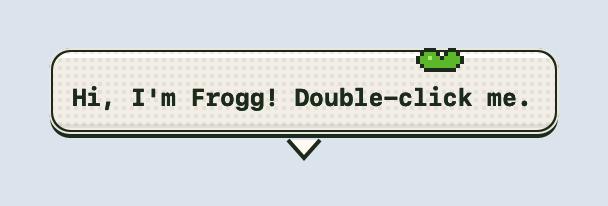
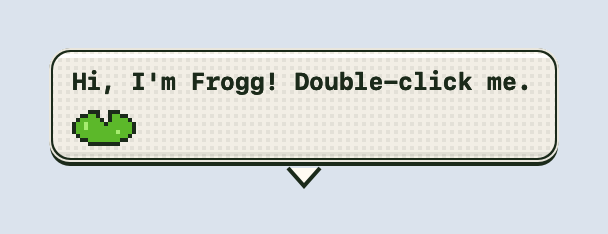
README, SPEC and screenshots: six Pixls, Katt and Silky, descriptions, Settings, counts
Lineup shows each Pixl's description and a greeting sound (bubbles hold only
sounds); menu-detail notes describe the current decals; Slugg's frame sheet;
the end-to-end state dump reports the new pixel controls.

Claude-Session: https://claude.ai/code/session_01FbPmycRw98T8vrGcqPeiEQ

Changed region(s): [[0.0625, 0.2039, 0.9375, 0.8155]]

diff --git a/macos/PixlMemory/Sources/PixlMemoryKit/PixlSpriteData.swift b/macos/PixlMemory/Sources/PixlMemoryKit/PixlSpriteData.swift
@@ -147,7 +147,7 @@ let pixlManifestJSON: [String: String] = [
     "signature": "Tongue snap",
     "askPlaceholder": "Ask Frogg anything…",
     "personality": "a deadpan red-eyed tree frog who answers briefly and kindly",
-    "detail": "Lily-pad notch, top edge",
+    "detail": "A lily pad on the bottom edge",
     "decal": {
       "grid": [
         "....kkk..kkk....",
@@ -352,7 +352,7 @@ let pixlManifestJSON: [String: String] = [
     "signature": "Slow blink",
     "askPlaceholder": "Ask Katt anything…",
     "personality": "an aloof black cat who judges first, then helps anyway, in very few words",
-    "detail": "Tail curl off the right edge",
+    "detail": "A tuna on the bottom edge",
     "decal": {
       "grid": [
         "....kkkkkk......",
@@ -554,7 +554,7 @@ let pixlManifestJSON: [String: String] = [
     "signature": "Zoomies",
     "askPlaceholder": "Ask Mochi anything…",
     "personality": "an excitable Shiba puppy who is warm, quick and a little dramatic",
-    "detail": "Teal bandana tab, bottom edge",
+    "detail": "A bone on the bottom edge",
     "decal": {
       "grid": [
         ".kk..........kk.",
@@ -757,7 +757,7 @@ let pixlManifestJSON: [String: String] = [
     "signature": "Phase",
     "askPlaceholder": "Ask Boo anything…",
     "personality": "a shy, cozy bedsheet ghost who whispers short, kind answers",
-    "detail": "Rippled sheet hem, bottom edge",
+    "detail": "A tiny ghost and ectoplasm",
     "decal": {
       "grid": [
         "..oooo..............",

diff --git a/macos/PixlMemory/Sources/PixlSnapshots/main.swift b/macos/PixlMemory/Sources/PixlSnapshots/main.swift
@@ -239,14 +239,14 @@ func run() throws {
             v.open(at: 0); v.advance(to: 2); v.setFocus(0)
             for k in 1...60 { v.advance(to: 2 + Double(k) / 60) }
             scene.addSubview(v)
-            let say = BubbleView(text: "Hi, I'm \(skin.manifest.name)!", look: look)
+            let say = BubbleView(text: VoicePicker.sounds(.greet, ui: skin.ui).first ?? "…", look: look)
             let holder = NSView(frame: NSRect(x: 14, y: 168, width: say.frame.width, height: say.frame.height)); holder.addSubview(say)
             scene.addSubview(holder)
-            let cap = NSTextField(labelWithString: "\(skin.manifest.name) · \(skin.manifest.species) · \(skin.ui.signature)")
+            let cap = NSTextField(labelWithString: "\(skin.manifest.name) · \(skin.ui.description ?? skin.manifest.species)")
             cap.font = Theme.mono(11, .bold); cap.textColor = Theme.ink
             cap.frame = NSRect(x: 18, y: 262, width: w - 48, height: 16)
             scene.addSubview(cap)
-            let detail = NSTextField(labelWithString: skin.ui.detail ?? "")
+            let detail = NSTextField(labelWithString: "Trick: \(skin.ui.signature) · " + (skin.ui.detail ?? ""))
             detail.font = Theme.mono(9); detail.textColor = Theme.muted
             detail.frame = NSRect(x: 18, y: 282, width: w - 48, height: 14)
             scene.addSubview(detail)

diff --git a/macos/PixlMemory/Sources/PixlMemory/E2EState.swift b/macos/PixlMemory/Sources/PixlMemory/E2EState.swift
@@ -70,7 +70,7 @@ enum E2EState {
                 // editable text fields report their role through the cell
                 let role = (v as? NSTextField).map { $0.isEditable ? NSAccessibility.Role.textField : $0.accessibilityRole() } ?? v.accessibilityRole()
                 if !v.isHiddenOrHasHiddenAncestor, v.alphaValue > 0.05,
-                   [.button, .menuItem, .link, .textField].contains(role),
+                   [.button, .menuItem, .link, .textField, .radioButton, .checkBox, .disclosureTriangle].contains(role),
                    let label = v.accessibilityLabel() ?? (v as? NSTextField)?.placeholderString {
                     let r = panel.convertToScreen(v.convert(v.bounds, to: nil))
                     out.append(["label": label, "role": role?.rawValue ?? "", "enabled": v.isAccessibilityEnabled(), "frame": tl(r)])

diff --git a/README.md b/README.md
@@ -12,8 +12,8 @@ Built for the **NEAR Hackathon** (Nov 2026). Tracks: **Privacy & Private AI** (p
 
 ## Screenshots
 
-![Frogg, Nox, Mochi, Boo and Silk, each with its menu open](docs/screenshots/pixlz-lineup.png)
-Five Pixls, each with its own accent, menu detail, signature move and voice (switch under More ▸ Change Pixl or in settings; memory, wallet and position carry over). Rendered from the Claude Design pixel engine.
+![Frogg, Katt, Mochi, Boo, Silky and Slugg, each with its menu open](docs/screenshots/pixlz-lineup.png)
+Six Pixls: Frogg (tree frog, the red-eyed kind), Katt (friendly feline), Mochi (Shiba Inu, professional zoomer), Boo (sheety ghost), Silky (black widow, mostly harmless) and Slugg (definitely a slug). Each has its own accent, menu detail, trick, sounds and walk. Switch in Settings or under More ▸ Change Pixl; memory, wallet and position carry over. Slugg also has alternate skins. Rendered from the Claude Design pixel engine (C7–C14).
 
 ![Ask, Memory, Wallet and Change Pixl cards, light](docs/screenshots/cards-light.png)
 ![The same cards, dark](docs/screenshots/cards-dark.png)
@@ -29,9 +29,9 @@ The cards on the C10 Solid material (Liquid Glass is the ghost's alone): header 
 | Chrome extension: a saved passage, reopened from its link, scrolled and highlighted. | The link picks the right "the frog" out of 35 on the page. |
 | ![Double-click or right-click: the option bubbles](docs/screenshots/bubbles-white-doc.png) | ![More: the mini list](docs/screenshots/more-list.png) |
 | ![Bubbles over a dark editor](docs/screenshots/bubbles-dark-editor.png) | ![⌃⌥P: the mini menu](docs/screenshots/mini-menu.png) |
-| Double-click or right-click the Pixl: Polish (with a selection) or Ask, Memory, Wallet, More. | More: Ask, Memory, Wallet, Focus, Do your thing, Change Pixl, settings, Hide. ⌃⌥P: the settings card. |
-| ![Frogg's wallet setup page](docs/screenshots/wallet-setup.jpg) | ![Every Frogg frame](docs/screenshots/frogg-frames.png) (and [`cat`](docs/screenshots/cat-frames.png), [`shiba`](docs/screenshots/shiba-frames.png), [`ghost`](docs/screenshots/ghost-frames.png), [`widow`](docs/screenshots/widow-frames.png)) |
-| `/wallet/setup`: the owner approves Frogg's account in Meteor. | Frogg's 25 frames (idle, hop, poke, grab, signature, nap, emotions), exported from the Claude Design C7 engine. |
+| Double-click or right-click the Pixl: Polish (with a selection) or Ask, Memory, Wallet, More. | More: Ask, Memory, Wallet, Focus, Do a trick, Change Pixl, Settings, Hide. ⌃⌥P: Settings (C12): pet, alternate skins, size S–XL, Calm / Roam / Chaos, and collapsible Focus, Shortcuts, Privacy & Memory and Wallet. |
+| ![Frogg's wallet setup page](docs/screenshots/wallet-setup.jpg) | ![Every Frogg frame](docs/screenshots/frogg-frames.png) (and [`cat`](docs/screenshots/cat-frames.png), [`shiba`](docs/screenshots/shiba-frames.png), [`ghost`](docs/screenshots/ghost-frames.png), [`widow`](docs/screenshots/widow-frames.png), [`slugg`](docs/screenshots/slugg-frames.png)) |
+| `/wallet/setup`: the owner approves Frogg's account in Meteor. | Frogg's frames (behavior slots, emotions, blink and his 12-step pond sleep), exported from the Claude Design engine (C7–C14) by `scripts/render-pixls.mjs`; Katt adds walk 8 / trot 6 / climb 6, Mochi trot 6, Slugg crawl 8 and ceiling 6 with a separate shell layer. |
 
 App screenshots are rendered offscreen from the app's own views (`swift run --package-path macos/PixlMemory pixl-snapshots <reply.json> docs/screenshots`). Browser screenshots are from Chrome.
 
@@ -91,9 +91,9 @@ Full details: [`memory/README.md`](memory/README.md).
 
 | Part | Status |
 |---|---|
-| `memory/`: local service, verification, encrypted store, CLI | **working**, 85 tests |
+| `memory/`: local service, verification, encrypted store, CLI | **working**, 97 tests |
 | Frogg's wallet: `frogg.sylversurferr.testnet`, funded by `sylversurferr.testnet`, pays per request | built and tested against a simulated chain (20 tests); waiting for the owner to create the account in Meteor |
-| `macos/PixlMemory/`: overlay app. Frogg perches on the active window, hops when you switch windows, and startles then hops to the new perch when you swipe to another Space (an edge pop when an arc between two displays would leave the screen). Behavior: Calm, or Roam (each Pixl explores in its own style: Silk climbs walls and hangs on silk; never while you type, never over your caret). Click to poke; double-click, right-click or press-and-hold for the option bubbles (Polish when text is selected → diff → drag the result into your text; otherwise Ask; Memory; Wallet; More); drag to grab and toss; menu bar item; ⌃⌥P / ⌃⌥Space / ⌃⌥H; Focus timer; hides in fullscreen | built; 95 unit/UI tests plus an in-app click self-test (`scripts/build-mac-app.sh --selftest`); installs to `~/Applications`, `--debug` logs every click |
+| `macos/PixlMemory/`: overlay app. Frogg perches on the active window, hops when you switch windows, and startles then hops to the new perch when you swipe to another Space (an edge pop when an arc between two displays would leave the screen). Behavior: Calm, Roam or Chaos (each Pixl explores in its own style with real walk/trot/crawl loops: Katt walks, Mochi trots, Slugg crawls and climbs with a lagging shell, Silky climbs walls and hangs on silk, Boo hovers and glides; never while you type, never over your caret). Sleeps when you're away (Frogg in his pond), wakes by the rules in SPEC §6.2. Text in three channels: sounds in bubbles, status narration, plain-English notices. Click to poke; double-click, right-click or press-and-hold for the option bubbles (Polish when text is selected → diff → drag the result into your text; otherwise Ask; Memory; Wallet; More); drag to grab and toss; menu bar item; ⌃⌥P / ⌃⌥Space / ⌃⌥H; Focus timer; hides in fullscreen | built; 119 unit/UI tests (+116 in PixlzCore) plus an in-app click self-test (47 checks) (`scripts/build-mac-app.sh --selftest`); installs to `~/Applications`, `--debug` logs every click |
 | `extension/`: Chrome highlight → save → text-fragment backlink; bridge to the Mac app (native messaging): highlights recalled in Ask with backlinks, Polish → Replace inside web pages and rich editors | built, 12 tests + 11 bridge protocol tests (one runs the real host binary); run in Chrome (see the backlink screenshots above) |
 
 Plan and design notes: [`docs/PLAN-pixl-memory.md`](docs/PLAN-pixl-memory.md).

diff --git a/docs/SPEC.md b/docs/SPEC.md
@@ -505,7 +505,7 @@ enum StoredPet {
 **Built (Mac, 2026-11-08):** `PixlTravel` (macos/PixlMemory).
 - **Bonjour.** `_pixlz._tcp`, advertised with a TXT record of device id and name. Every device browses, so nearby devices show up like AirDrop targets. The app declares `NSBonjourServices` and asks for Local Network once; until that's allowed, More ▸ Send to device says "allow Local Network".
 - **Trips.** PixlzCore's `TravelNode` runs over TCP with length-prefixed envelopes. `TripRunner` persists every `.saved` before any later `.send`, so at least one complete copy of the Pixl always exists.
-- **Consent.** The first offer from an unknown device asks the user ("Catch Nox from Laptop?"). After a yes, that device is trusted.
+- **Consent.** The first offer from an unknown device asks the user ("Catch Katt from Laptop?"). After a yes, that device is trusted.
 - **What travels.** Only PetState: name, species, needs, stats. Never memory, highlights or wallet keys.
 - **UI:**
   - a "Send to <device>" bubble when one is nearby;
@@ -591,7 +591,7 @@ protocol PetTransport {
 | **Poke** | Click (press + release < 250 ms, < 6 pt movement). A single click only pokes | Tap |
 | **Option bubbles** (§11.2) | Double-click, right-click, or press and hold 450 ms. The poke from the first click is cut short | Double-tap or long-press |
 | **Grab / throw** | Drag (after 6 pt movement), release to throw. Starting a drag pops any open bubbles | Drag, release to toss; bounces off screen edges |
-| **Signature** | An idle quirk (now and then while perched), or More ▸ "Do your thing" | Same |
+| **Signature** | An idle quirk (now and then while perched), or More ▸ "Do a trick" | Same |
 
 - Poke reaction: `poke` slot, fun +3, affection +4. 3 pokes in 4 s → `annoyed`. A poke while asleep → `startled`, then `annoyed`.
 - Mouse hits only on opaque pixels of the current frame (R2).
@@ -607,7 +607,7 @@ protocol PetTransport {
 | 2 | **Memory** | Recent highlights with backlinks, searchable |
 | 3 | **Wallet** (sub-label: balance) | Balance, cap and recent receipts; "Set up" if the sub-account doesn't exist |
 | 4 | **Send to <device>** | Only while a paired peer is reachable (none in the hackathon build) |
-| last | **More** | The mini list: Ask ⌘K · Memory · Wallet · Send to device · Focus · Do your thing · Pixl settings ⌃⌥P · Hide for now ⌃⌥H |
+| last | **More** | The mini list: Ask ⌘K · Memory · Wallet · Send to device · Focus · Do a trick · Pixl settings ⌃⌥P · Hide for now ⌃⌥H |
 
 - **Close:** Esc, a click anywhere else, or a click on the Pixl → reverse stagger (30 ms, 170 ms). Starting a drag → all bubbles pop at once (130 ms, with a 220 ms dither ring).
 - **States:** hover lifts 3 pt and grows ×1.1 over 120 ms; press shrinks ×0.9 (glass) or ×0.96 and sinks 2 pt (paper); keyboard focus draws a 2 pt accent ring and shows the label pill.
@@ -644,12 +644,12 @@ A Pixl's text goes through exactly one of three channels. Code: `PixlVoice.swift
 
 1. **Voice.** Speech bubbles hold only the species' own sounds.
    - The sounds are defined per Pixl in `pixl.json` `ui.sounds`, by event: greet, happy, curious, annoyed, startled, sleepy, sad, idle.
-   - Examples: Frogg says "ribbit", "rrbt?", "RIBBIT!". Nox says "meow", "mrrp?", "hss". Mochi says "wan!", "awoo". Silk says "tk tk". Boo says "…" or "boo".
+   - Examples: Frogg says "ribbit", "rrbt?", "RIBBIT!". Katt says "meow", "mrrp?", "hss". Mochi says "wan!", "awoo". Silky says "tk tk". Boo says "…" or "boo".
    - Lines are picked so the same one is never said twice in a row (`VoicePicker`).
    - The bubble sits on the shared surface (§11.2), with its tail toward the head, in bold monospace.
    - Boo is shy (`ui.shy`): its sounds float by its head without a bubble.
    - The app's only speech bubble is `speak(_ event)`. A test checks that no other code builds one.
-2. **Status.** Third-person narration of what the Pixl is doing right now, for example "Frogg is practicing his croak.", "Nox is judging you.", "Silk is climbing the walls.".
+2. **Status.** Third-person narration of what the Pixl is doing right now, for example "Frogg is practicing his croak.", "Katt is judging you.", "Silky is climbing the walls.".
    - It comes from the current activity: its own `ui.status` lines when idle; otherwise asleep, a Roam outing, a game, thinking, visiting another device, Focus, or resizing.
    - The pronoun is set per Pixl in Settings (he, she, they, it, or the name). The default is `ui.pronoun`.
    - It shows in the Settings header, in a tooltip after the mouse rests on the Pixl for ~1 s, and in the menu bar (the first row and the icon's tooltip).
